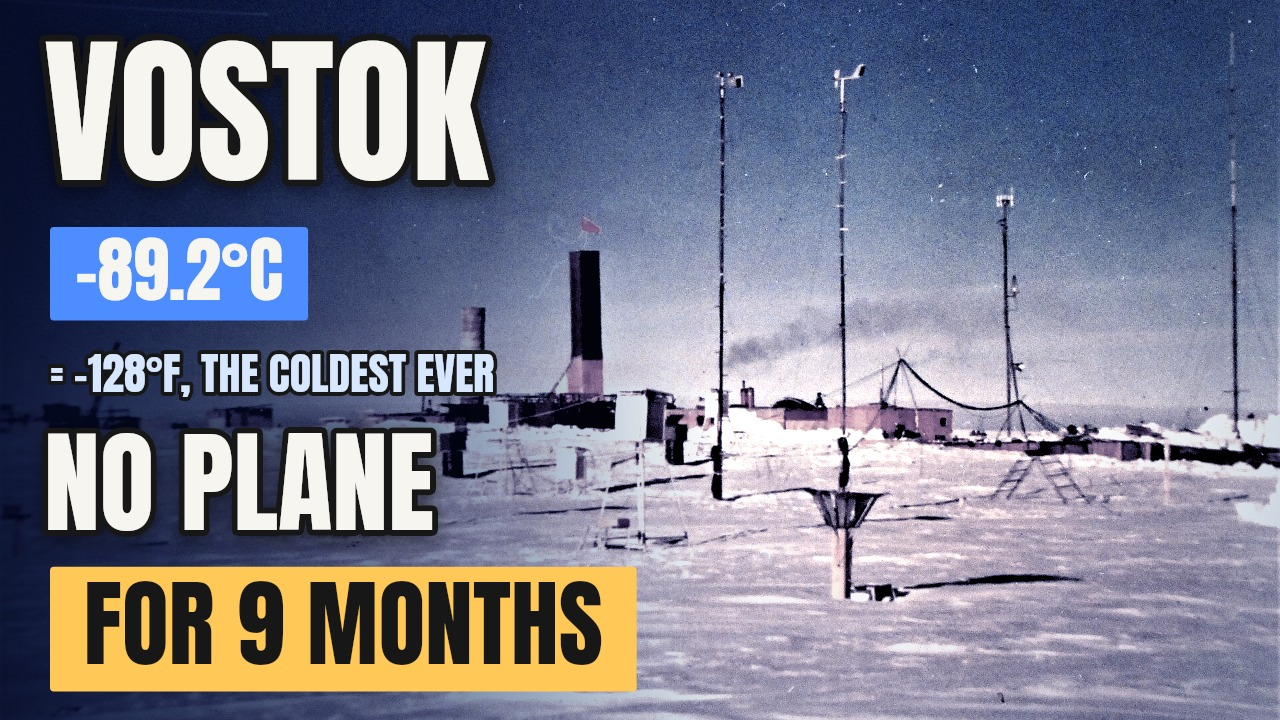
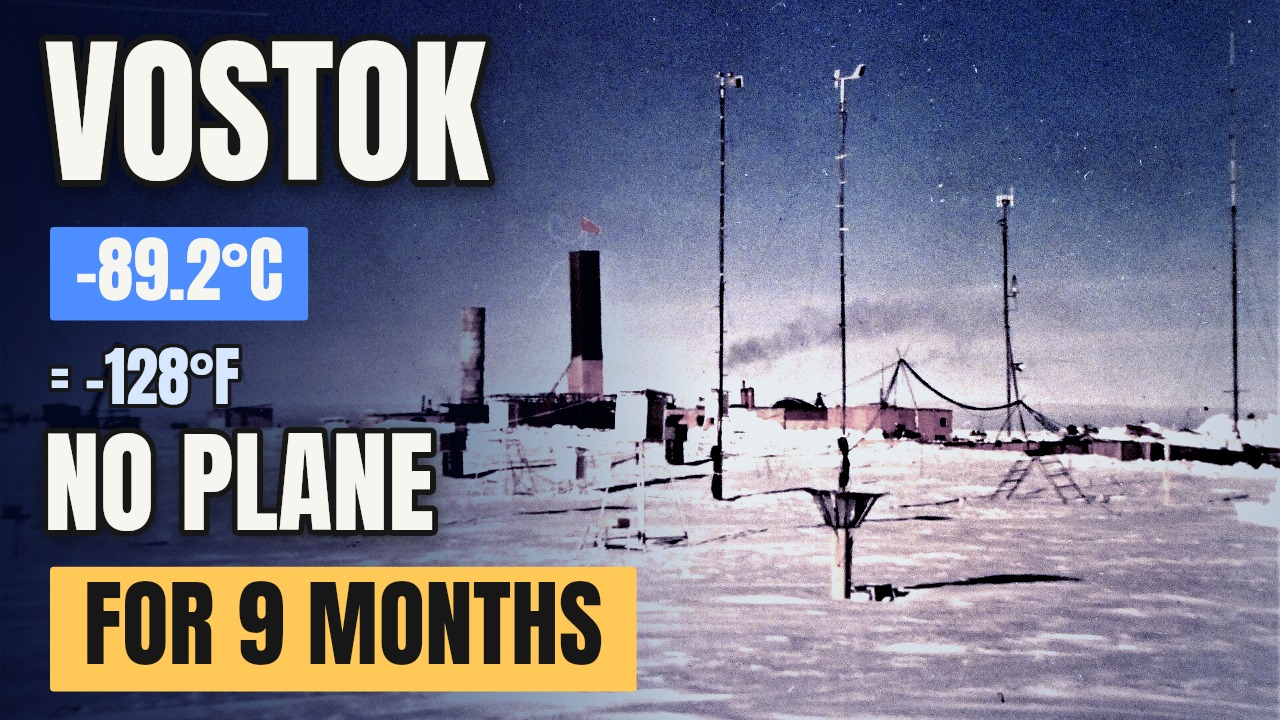
Covers v2 for EP11 Aleutians (C, D) and EP12 Vostok (C), after studying top YouTube thumbnails
Claude-Session: https://claude.ai/code/session_01RM84ZkH4GSp4TtDDAc4P7c

diff --git a/whyhow/ep12_vostok/cover.js b/whyhow/ep12_vostok/cover.js
@@ -13,14 +13,14 @@ async function base(file, sx, sy, sw, sh, filt) {
 function stack(ctx, place, badge, badgeBg, l1, l2, s1 = 112, s2 = 96, sub) {
   text(ctx, place, 44, 180, { size: 160, font: F.head, color: C.cream, stroke: 14, strokeColor: C.ink, shadow: 20 });
   ctx.save(); ctx.translate(50, 300); chip(ctx, badge, 0, 0, { size: 72, bg: badgeBg, color: C.cream }); ctx.restore();
-  if (sub) text(ctx, sub, 50, 392, { size: 44, font: F.head, color: C.frost, stroke: 8, strokeColor: C.ink });
+  if (sub) text(ctx, sub, 50, 404, { size: 64, font: F.head, color: C.frost, stroke: 8, strokeColor: C.ink });
   text(ctx, l1, 44, 530, { size: s1, font: F.head, color: C.cream, stroke: 12, strokeColor: C.ink, shadow: 18 });
   ctx.save(); ctx.translate(50, 664); chip(ctx, l2, 0, 0, { size: s2, bg: C.yellow, color: C.ink }); ctx.restore();
 }
 (async () => {
-  { const [cv, ctx] = await base('cm_vostok_1970s_view', 0, 200, 1920, 1080, 'saturate(0.6) contrast(1.2) hue-rotate(-10deg)');
+  { const [cv, ctx] = await base('cm_vostok_1970s_view', 0, 200, 1920, 1080, 'saturate(0.7) contrast(1.5) brightness(0.92)');
     ctx.save(); ctx.globalCompositeOperation = 'soft-light'; ctx.fillStyle = 'rgba(77,141,255,0.55)'; ctx.fillRect(0, 0, W, H); ctx.restore();
-    stack(ctx, 'VOSTOK', '−89.2°C', C.ice, 'NO PLANE', 'FOR 9 MONTHS', 112, 96, '= −128°F, THE COLDEST EVER');
+    stack(ctx, 'VOSTOK', '−89.2°C', C.ice, 'NO PLANE', 'FOR 9 MONTHS', 112, 96, '= −128°F');
     fs.writeFileSync(process.argv[2], cv.toBuffer('image/jpeg', 92)); }
   { const img = await loadImage(__dirname + '/cover_stove_bg.jpg'); const cv = K.createCanvas(W, H), ctx = cv.getContext('2d'); ctx.fillStyle = '#0B0806'; ctx.fillRect(0, 0, W, H); ctx.filter = 'saturate(1.4) contrast(1.25)'; ctx.drawImage(img, 0, 0, 1500, 844, 420, 120, 860, 484); ctx.filter = 'none';
     const sg = ctx.createLinearGradient(0, 0, 720, 0); sg.addColorStop(0, 'rgba(6,8,12,0.9)'); sg.addColorStop(1, 'rgba(6,8,12,0)'); ctx.fillStyle = sg; ctx.fillRect(0, 0, 780, H);
@@ -28,4 +28,21 @@ function stack(ctx, place, badge, badgeBg, l1, l2, s1 = 112, s2 = 96, sub) {
     ctx.save(); ctx.globalCompositeOperation = 'screen'; ctx.fillStyle = g; ctx.fillRect(0, 0, W, H); ctx.restore();
     stack(ctx, '1982', 'NO POWER', C.red, '227 DAYS', 'ON THEIR OWN', 112, 96, 'VOSTOK, ANTARCTICA');
     fs.writeFileSync(process.argv[3], cv.toBuffer('image/jpeg', 92)); }
+
+  // C (v2, after the top Vostok/coldest-place videos on YouTube, Nov 2026): one real station, night-blue, huge number, crossed-out plane.
+  if (process.argv[4]) { const [cv, ctx] = await base('cm_vostok_1970s_view', 0, 180, 1920, 1080, 'saturate(0.5) contrast(1.4) brightness(0.62)');
+    ctx.save(); ctx.globalCompositeOperation = 'multiply'; ctx.fillStyle = '#5C7FC8'; ctx.fillRect(0, 0, W, H); ctx.restore();
+    const fr = ctx.createLinearGradient(0, 0, 0, H * 0.45); fr.addColorStop(0, 'rgba(10,18,40,0.7)'); fr.addColorStop(1, 'rgba(10,18,40,0)'); ctx.fillStyle = fr; ctx.fillRect(0, 0, W, H * 0.45);
+    K.snow(ctx, 3.3, 140, 0.55, 60);
+    text(ctx, '−89°C', 40, 250, { size: 250, font: F.head, color: '#DDEBFF', stroke: 16, strokeColor: '#0B1426', shadow: 30 });
+    // plane with a red cross
+    ctx.save(); ctx.translate(1060, 150); ctx.rotate(-0.12); ctx.fillStyle = '#F7F5F0';
+    ctx.beginPath(); ctx.ellipse(0, 0, 120, 18, 0, 0, 7); ctx.fill();
+    ctx.beginPath(); ctx.moveTo(-20, 0); ctx.lineTo(30, -95); ctx.lineTo(55, -95); ctx.lineTo(35, 0); ctx.closePath(); ctx.fill();
+    ctx.beginPath(); ctx.moveTo(-20, 0); ctx.lineTo(30, 95); ctx.lineTo(55, 95); ctx.lineTo(35, 0); ctx.closePath(); ctx.fill();
+    ctx.beginPath(); ctx.moveTo(-100, 0); ctx.lineTo(-125, -42); ctx.lineTo(-108, -42); ctx.lineTo(-80, 0); ctx.closePath(); ctx.fill(); ctx.restore();
+    ctx.save(); ctx.strokeStyle = C.red; ctx.lineWidth = 22; ctx.lineCap = 'round'; ctx.beginPath(); ctx.moveTo(940, 40); ctx.lineTo(1180, 260); ctx.moveTo(1180, 40); ctx.lineTo(940, 260); ctx.stroke(); ctx.restore();
+    ctx.save(); ctx.translate(50, 560); chip(ctx, 'NO PLANES', 0, 0, { size: 120, bg: C.yellow, color: C.ink }); ctx.restore();
+    text(ctx, 'FOR 9 MONTHS', 56, 690, { size: 84, font: F.head, color: C.cream, stroke: 10, strokeColor: C.ink, shadow: 16 });
+    fs.writeFileSync(process.argv[4], cv.toBuffer('image/jpeg', 92)); }
 })();

diff --git a/whyhow/ep11_aleutians/cover2.js b/whyhow/ep11_aleutians/cover2.js
@@ -1,0 +1,26 @@
+// EP11 thumbnails v2 (1280x720), after studying the top Aleutian/Attu videos on YouTube (Nov 2026):
+// one big real subject, 2-4 words max, high contrast. Real photos (see CREDITS).
+// node cover2.js OUT_C.jpg OUT_D.jpg   (run from atlaskit/)
+const K = require('../atlaskit/core'); const fs = require('fs'); const { loadImage } = require('@napi-rs/canvas');
+const { C, F, text, chip } = K; const W = 1280, H = 720;
+async function img(file, sx, sy, sw, sh, filt) { const im = await loadImage(__dirname + '/footage/' + file + '.jpg'); const cv = K.createCanvas(W, H), ctx = cv.getContext('2d');
+  ctx.filter = filt; ctx.drawImage(im, sx, sy, sw, sh, 0, 0, W, H); ctx.filter = 'none'; return [cv, ctx]; }
+const vign = (ctx, a) => { const g = ctx.createRadialGradient(W * 0.5, H * 0.5, 250, W * 0.5, H * 0.5, 900); g.addColorStop(0, 'rgba(0,0,0,0)'); g.addColorStop(1, `rgba(0,0,0,${a})`); ctx.fillStyle = g; ctx.fillRect(0, 0, W, H); };
+(async () => {
+  // C: the Attu soldier in the snow, 1943 (US Army Signal Corps) + "JAPAN INVADED / AMERICA"
+  { const [cv, ctx] = await img('cm_attu_1943_us_troops', 0, 120, 1920, 1080, 'contrast(1.35) brightness(1.02)');
+    ctx.save(); ctx.globalCompositeOperation = 'soft-light'; ctx.fillStyle = 'rgba(77,141,255,0.45)'; ctx.fillRect(0, 0, W, H); ctx.restore(); vign(ctx, 0.55);
+    const g = ctx.createLinearGradient(W, 0, W * 0.45, 0); g.addColorStop(0, 'rgba(6,12,24,0.85)'); g.addColorStop(1, 'rgba(6,12,24,0)'); ctx.fillStyle = g; ctx.fillRect(W * 0.4, 0, W * 0.6, H);
+    ctx.save(); ctx.translate(1236, 130); chip(ctx, 'ALASKA, 1942', 0, 0, { size: 60, bg: C.red, color: C.cream, align: 'right' }); ctx.restore();
+    text(ctx, 'JAPAN', 1236, 330, { size: 170, font: F.head, align: 'right', color: C.cream, stroke: 14, strokeColor: C.ink, shadow: 20 });
+    text(ctx, 'INVADED', 1236, 490, { size: 170, font: F.head, align: 'right', color: C.cream, stroke: 14, strokeColor: C.ink, shadow: 20 });
+    ctx.save(); ctx.translate(1236, 630); chip(ctx, 'AMERICA', 0, 0, { size: 110, bg: C.yellow, color: C.ink, align: 'right' }); ctx.restore();
+    fs.writeFileSync(process.argv[2], cv.toBuffer('image/jpeg', 92)); }
+  // D: the ruined Navy home on Adak, one big number
+  { const [cv, ctx] = await img('cm_adak_ruined_homes', 0, 100, 1920, 1080, 'saturate(1.25) contrast(1.2)'); vign(ctx, 0.5);
+    const g = ctx.createLinearGradient(0, 0, 700, 0); g.addColorStop(0, 'rgba(6,12,24,0.88)'); g.addColorStop(1, 'rgba(6,12,24,0)'); ctx.fillStyle = g; ctx.fillRect(0, 0, 760, H);
+    text(ctx, 'ADAK', 50, 200, { size: 170, font: F.head, color: C.cream, stroke: 14, strokeColor: C.ink, shadow: 20 });
+    ctx.save(); ctx.translate(56, 400); chip(ctx, '96% GONE', 0, 0, { size: 140, bg: C.red, color: C.cream }); ctx.restore();
+    ctx.save(); ctx.translate(56, 600); chip(ctx, 'WHY?', 0, 0, { size: 110, bg: C.yellow, color: C.ink }); ctx.restore();
+    fs.writeFileSync(process.argv[3], cv.toBuffer('image/jpeg', 92)); }
+})();

diff --git a/whyhow/ep11_aleutians/upload_kit.md b/whyhow/ep11_aleutians/upload_kit.md
@@ -2,7 +2,7 @@
 
 **File:** `aleutians_islands_still_empty.mp4` (1920×1080, 30 fps, ~11:25, −14 LUFS).
 **Mid-roll ads:** the video is over 8 minutes, so mid-rolls are allowed. Place them on chapter breaks: about 4:07 and 7:23.
-**Thumbnail:** `aleutians_cover_A.jpg` (main, pairs with the main title) and `aleutians_cover_B.jpg` (pairs with the Japan title), 1280×720. Run A vs B in YouTube "Test & compare".
+**Thumbnail (v2, Nov 2026, after studying the top Aleutian/Attu videos on YouTube):** `aleutians_cover_C.jpg` (main: the Attu soldier in the snow, "JAPAN INVADED AMERICA", pairs with the Japan title) and `aleutians_cover_D.jpg` (the ruined Adak home, "ADAK 96% GONE WHY?", pairs with the main title), 1280×720. Run C vs D in YouTube "Test & compare". The old A/B covers stay as spares.
 **Subtitles:** `aleutians_subtitles_en.srt` (English).
 **Altered or synthetic content:** synthetic (AI) narrator voice that does not imitate a real person: "No" is allowed, "Yes" is also safe. All footage and photos are real: US Navy and US Army Signal Corps films 1942–44 (National Archives, via Internet Archive), Atomic Energy Commission films of Amchitka, US Fish & Wildlife Service, Wikimedia Commons, Pixabay. Clips that are not from the Aleutians are labelled ILLUSTRATIVE. Maps and diagrams are our own animation.
 **Playlist:** How Cities Really Work

diff --git a/whyhow/ep12_vostok/upload_kit.md b/whyhow/ep12_vostok/upload_kit.md
@@ -2,7 +2,8 @@
 
 **File:** `vostok_coldest_place_ever_measured.mp4` (1920×1080, 30 fps, ~11:56, −14 LUFS).
 **Mid-roll ads:** the video is over 8 minutes, so mid-rolls are allowed. Place them on chapter breaks at about 4:41 and 7:43 (check the exact times against the chapters below after upload).
-**Thumbnails** (1280×720; test A against B in YouTube "Test & compare"):
+**Thumbnails** (1280×720; test C against B in YouTube "Test & compare"; A is a spare):
+- `vostok_cover_C.jpg`: main (v2, after the top Vostok videos on YouTube): a real Vostok photo at night, "−89°C", a crossed-out plane, "NO PLANES FOR 9 MONTHS".
 - `vostok_cover_A.jpg`: main, a real Vostok photo from 1973.
 - `vostok_cover_B.jpg`: our 1982 stove diagram; pairs with the "Night" title.
 
